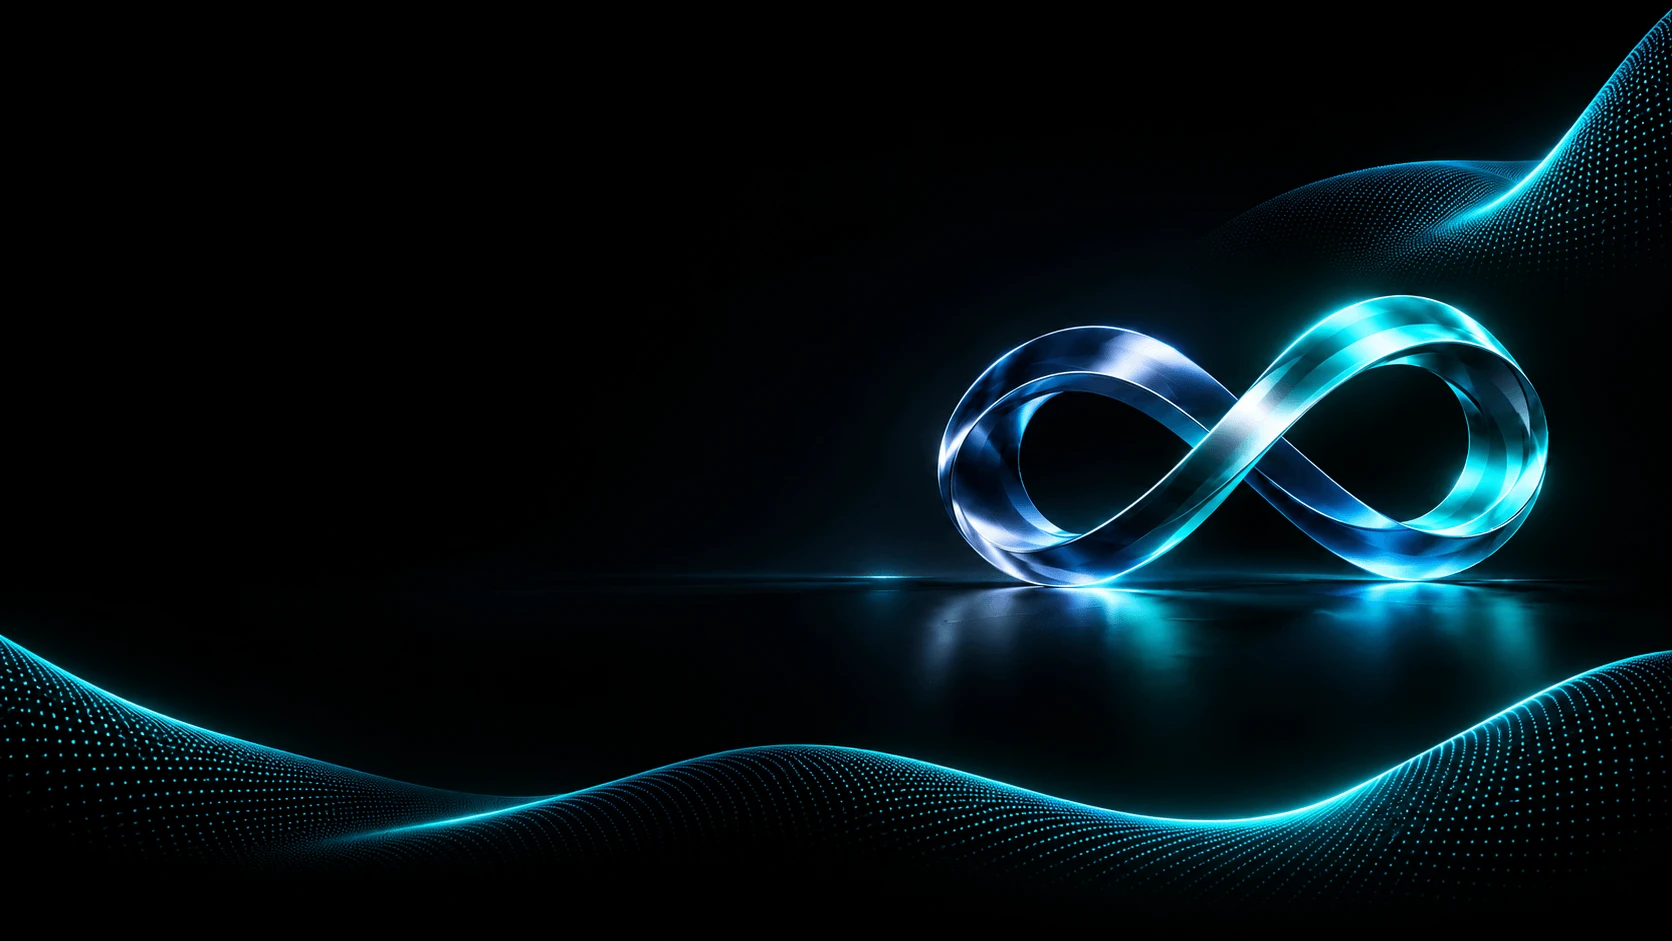
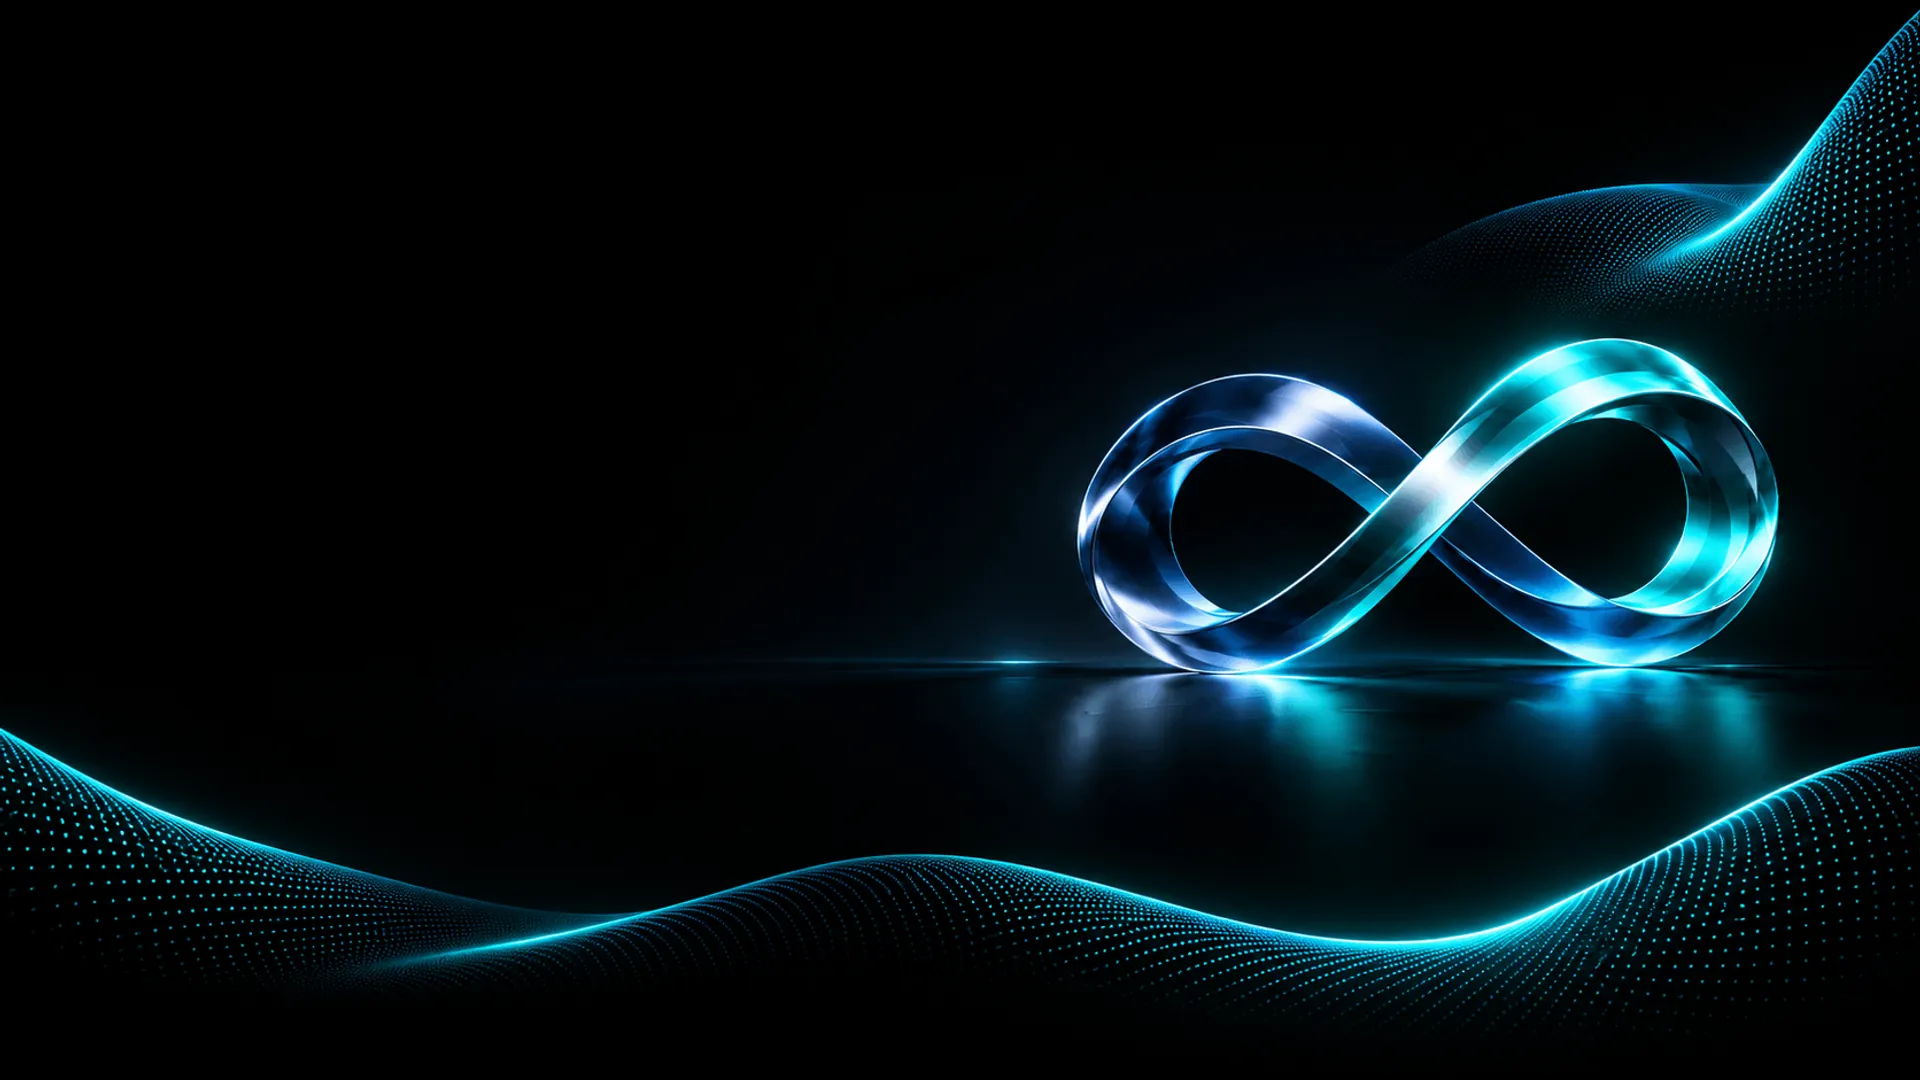
fix(desktop): restore synchronous scrolltrigger sequencing to eliminate section overlap; optimize webp assets

diff --git a/src/components/home/AboutSection.tsx b/src/components/home/AboutSection.tsx
@@ -171,87 +171,79 @@ export function AboutSection() {
       );
 
       // 2. Sideways Horizontal Pinned Carousel Animation (with Centered Hold Plateaus)
-      const initCarousel = () => {
-        const container = stageRef.current;
-        if (container) {
-          const slides = gsap.utils.toArray<HTMLElement>('.carousel__item', container);
+      const container = stageRef.current;
+      if (container) {
+        const slides = gsap.utils.toArray<HTMLElement>('.carousel__item', container);
 
-          if (slides.length > 0) {
-            const tl = gsap.timeline({ defaults: { ease: 'power2.inOut' } });
+        if (slides.length > 0) {
+          const tl = gsap.timeline({ defaults: { ease: 'power2.inOut' } });
 
-            ScrollTrigger.create({
-              animation: tl,
-              id: 'practice-horizontal-st',
-              trigger: container,
-              start: 'top top',
-              end: () => `+=${container.clientHeight * (slides.length - 1)}`,
-              pin: true,
-              scrub: 1,
-              snap: {
-                snapTo: 'labels',
-                duration: { min: 0.25, max: 0.6 },
-                ease: 'power1.out'
-              },
-              anticipatePin: 1
-            });
+          ScrollTrigger.create({
+            animation: tl,
+            id: 'practice-horizontal-st',
+            trigger: container,
+            start: 'top top',
+            end: () => `+=${container.clientHeight * (slides.length - 1)}`,
+            pin: true,
+            scrub: 1,
+            snap: {
+              snapTo: 'labels',
+              duration: { min: 0.25, max: 0.6 },
+              ease: 'power1.out'
+            },
+            anticipatePin: 1
+          });
 
-            // Reset all slides: horizontal sideways translation only (xPercent, yPercent is strictly 0)
-            gsap.set(slides, {
-              xPercent: 115,
-              yPercent: 0,
-              scale: 0.9,
+          // Reset all slides: horizontal sideways translation only (xPercent, yPercent is strictly 0)
+          gsap.set(slides, {
+            xPercent: 115,
+            yPercent: 0,
+            scale: 0.9,
+            opacity: 0,
+            zIndex: 1
+          });
+
+          // First slide begins active, centered and visible
+          gsap.set(slides[0], {
+            xPercent: 0,
+            yPercent: 0,
+            opacity: 1,
+            scale: 1,
+            zIndex: 20
+          });
+
+          // Label for slide 1 during initial centered rest
+          tl.add('our-work-1', 0);
+          // Initial pause so Slide 1 rests centered before scrolling away
+          tl.to({}, { duration: 0.5 });
+
+          // Sequential horizontal sideways transitions with hold plateaus
+          for (let i = 1; i < slides.length; i++) {
+            // Sideways Slide: Previous slide exits left (-115%), Current slide enters from right (115% -> 0%)
+            tl.to(slides[i - 1], {
+              xPercent: -115,
               opacity: 0,
-              zIndex: 1
-            });
-
-            // First slide begins active, centered and visible
-            gsap.set(slides[0], {
-              xPercent: 0,
-              yPercent: 0,
-              opacity: 1,
-              scale: 1,
-              zIndex: 20
-            });
-
-            // Label for slide 1 during initial centered rest
-            tl.add('our-work-1', 0);
-            // Initial pause so Slide 1 rests centered before scrolling away
-            tl.to({}, { duration: 0.5 });
-
-            // Sequential horizontal sideways transitions with hold plateaus
-            for (let i = 1; i < slides.length; i++) {
-              // Sideways Slide: Previous slide exits left (-115%), Current slide enters from right (115% -> 0%)
-              tl.to(slides[i - 1], {
-                xPercent: -115,
-                opacity: 0,
-                scale: 0.9,
-                zIndex: 10,
-                duration: 1.0
-              })
-                .to(
-                  slides[i],
-                  {
-                    xPercent: 0,
-                    opacity: 1,
-                    scale: 1,
-                    zIndex: 20,
-                    duration: 1.0
-                  },
-                  '<'
-                )
-                // Centered Hold Plateau: Holds cleanly in center for reading
-                .to({}, { duration: 0.5 })
-                // Add label exactly at the centered hold point for accurate snapping
-                .add(`our-work-${i + 1}`);
-            }
+              scale: 0.9,
+              zIndex: 10,
+              duration: 1.0
+            })
+              .to(
+                slides[i],
+                {
+                  xPercent: 0,
+                  opacity: 1,
+                  scale: 1,
+                  zIndex: 20,
+                  duration: 1.0
+                },
+                '<'
+              )
+              // Centered Hold Plateau: Holds cleanly in center for reading
+              .to({}, { duration: 0.5 })
+              // Add label exactly at the centered hold point for accurate snapping
+              .add(`our-work-${i + 1}`);
           }
         }
-      };
-
-      if ('requestIdleCallback' in window) {
-        (window as any).requestIdleCallback(initCarousel, { timeout: 1000 });
-      } else {
-        setTimeout(initCarousel, 120);
       }
 
       // 3. Founder's Note entrance

diff --git a/src/components/home/CareersSection.tsx b/src/components/home/CareersSection.tsx
@@ -206,73 +206,59 @@ export function CareersSection() {
 
       if (!track || !viewport || !stage || cards.length === 0) return;
 
-      let tl: gsap.core.Timeline | null = null;
+      const isMobile = window.innerWidth <= 768;
+      const gap = isMobile ? 18 : 32;
+      const cardEl = cards[0];
+      const cardWidth = (cardEl ? cardEl.offsetWidth : (isMobile ? window.innerWidth * 0.82 : 460)) + gap;
+      const totalCards = CAREER_ROLES.length;
+      const totalDistance = cardWidth * (totalCards - 1);
 
-      const initTimeline = () => {
-        const isMobile = window.innerWidth <= 768;
-        const gap = isMobile ? 18 : 32;
-        const cardEl = cards[0];
-        const cardWidth = (cardEl ? cardEl.offsetWidth : (isMobile ? window.innerWidth * 0.82 : 460)) + gap;
-        const totalCards = CAREER_ROLES.length;
-        const totalDistance = cardWidth * (totalCards - 1);
+      // Set initial active state on card 0
+      cards.forEach((card, idx) => {
+        card.classList.toggle('active', idx === 0);
+      });
 
-        // Set initial active state on card 0
-        cards.forEach((card, idx) => {
-          card.classList.toggle('active', idx === 0);
-        });
+      // Pinned GSAP Timeline with Scrub & Snap
+      const tl = gsap.timeline({
+        scrollTrigger: {
+          trigger: track,
+          start: 'top top',
+          end: () => `+=${totalDistance * (isMobile ? 1.0 : 1.4)}`,
+          pin: viewport,
+          pinSpacing: true,
+          scrub: 0.8,
+          anticipatePin: 1,
+          fastScrollEnd: true,
+          preventOverlaps: true,
+          invalidateOnRefresh: true,
+          onUpdate: (self) => {
+            const rawProgress = self.progress;
+            const floatIndex = rawProgress * (totalCards - 1);
+            const nearestIndex = Math.min(Math.round(floatIndex), totalCards - 1);
 
-        // Pinned GSAP Timeline with Scrub & Snap
-        tl = gsap.timeline({
-          scrollTrigger: {
-            trigger: track,
-            start: 'top top',
-            end: () => `+=${totalDistance * (isMobile ? 1.0 : 1.4)}`,
-            pin: viewport,
-            pinSpacing: true,
-            scrub: 0.8,
-            anticipatePin: 1,
-            fastScrollEnd: true,
-            preventOverlaps: true,
-            invalidateOnRefresh: true,
-            onUpdate: (self) => {
-              const rawProgress = self.progress;
-              const floatIndex = rawProgress * (totalCards - 1);
-              const nearestIndex = Math.min(Math.round(floatIndex), totalCards - 1);
+            if (nearestIndex !== currentIndexRef.current) {
+              currentIndexRef.current = nearestIndex;
+              setActiveIndex(nearestIndex);
 
-              if (nearestIndex !== currentIndexRef.current) {
-                currentIndexRef.current = nearestIndex;
-                setActiveIndex(nearestIndex);
-
-                cards.forEach((card, idx) => {
-                  const isActive = idx === nearestIndex;
-                  card.classList.toggle('active', isActive);
-                });
-              }
+              cards.forEach((card, idx) => {
+                const isActive = idx === nearestIndex;
+                card.classList.toggle('active', isActive);
+              });
             }
           }
-        });
+        }
+      });
 
-        scrollTriggerRef.current = tl.scrollTrigger as ScrollTrigger;
+      scrollTriggerRef.current = tl.scrollTrigger as ScrollTrigger;
 
-        tl.to(stage, {
-          x: -totalDistance,
-          ease: 'none'
-        });
+      tl.to(stage, {
+        x: -totalDistance,
+        ease: 'none'
+      });
+
+      return () => {
+        tl.kill();
       };
-
-      if ('requestIdleCallback' in window) {
-        const id = (window as any).requestIdleCallback(initTimeline, { timeout: 1200 });
-        return () => {
-          (window as any).cancelIdleCallback(id);
-          tl?.kill();
-        };
-      } else {
-        const id = setTimeout(initTimeline, 150);
-        return () => {
-          clearTimeout(id);
-          tl?.kill();
-        };
-      }
     },
     { scope: sectionRef }
   );

diff --git a/src/components/home/HeroSection.tsx b/src/components/home/HeroSection.tsx
@@ -259,7 +259,7 @@ export function HeroSection() {
             <picture>
               <source srcSet="/images/lightbgphone.webp" type="image/webp" />
               <img
-                src="/images/lightbgphone.png"
+                src="/images/lightbgphone.webp"
                 alt="Infidell Technology Metallic Infinity Ribbon Visual - Light Mobile"
                 fetchPriority="high"
                 loading="eager"
@@ -273,7 +273,7 @@ export function HeroSection() {
             <picture>
               <source srcSet="/lightbg.webp" type="image/webp" />
               <img
-                src="/lightbg.png"
+                src="/lightbg.webp"
                 alt="Infidell Technology Metallic Infinity Ribbon Visual - Light Theme"
                 fetchPriority="high"
                 loading="eager"

diff --git a/src/components/providers/SmoothScrollProvider.tsx b/src/components/providers/SmoothScrollProvider.tsx
@@ -29,9 +29,7 @@ export function SmoothScrollProvider({ children }: { children: React.ReactNode }
     const isMobile = window.innerWidth < 768;
     if (isMobile) {
       // Mobile viewports preserve 100% native 120Hz GPU touch scrolling with zero main-thread RAF overhead
-      return () => {
-        ScrollTrigger.getAll().forEach((t) => t.kill());
-      };
+      return;
     }
 
     const lenis = new Lenis({
@@ -59,7 +57,6 @@ export function SmoothScrollProvider({ children }: { children: React.ReactNode }
       gsap.ticker.remove(tickerCb);
       (window as any).lenis = null;
       lenis.destroy();
-      ScrollTrigger.getAll().forEach((t) => t.kill());
     };
   }, []);
 
